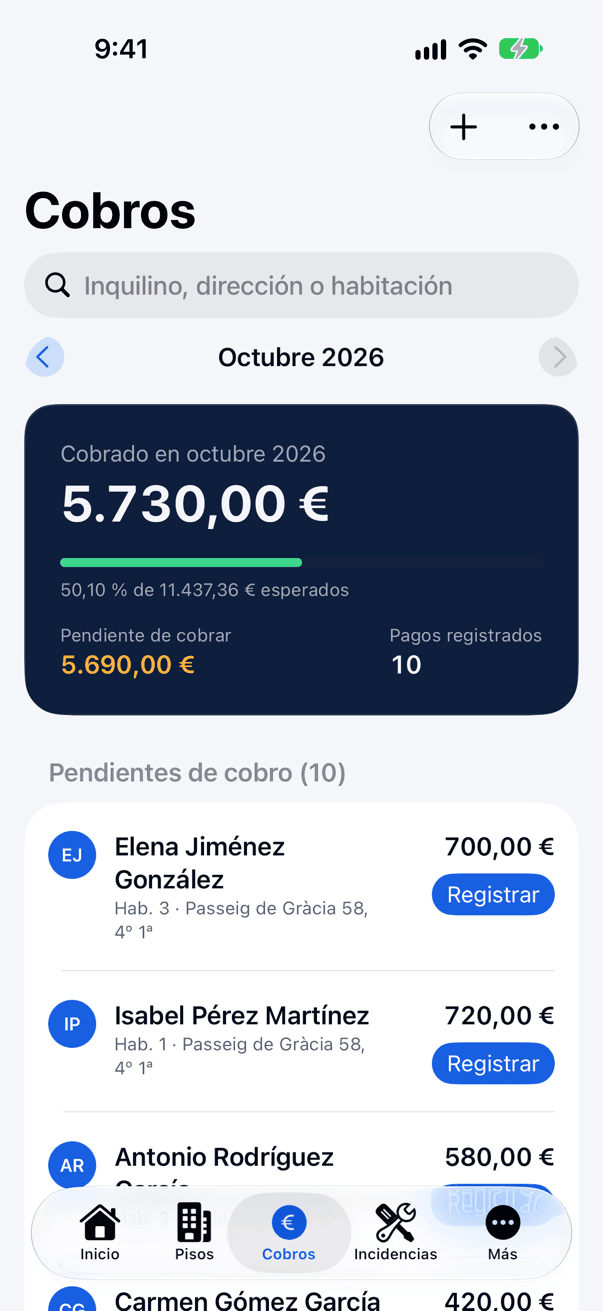
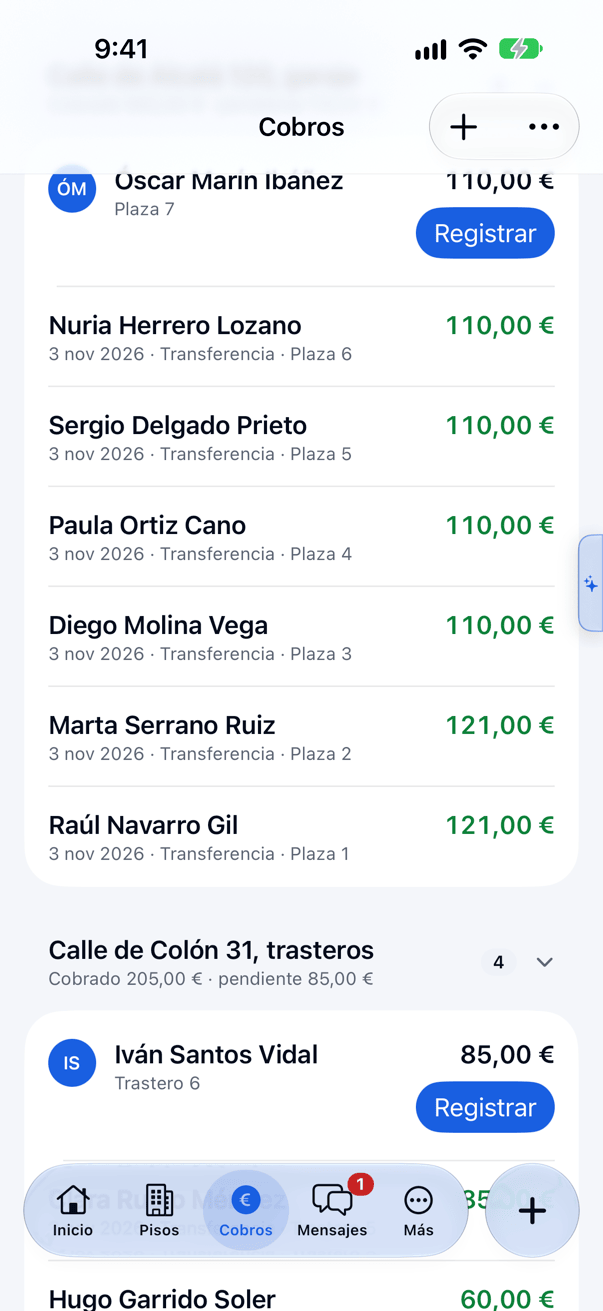
Escaparate con garajes y trasteros
- Diez capturas en claro y oscuro: Inicio, cartera con los tres tipos, piso,
  garaje, cobros, estadísticas, comparación de análisis, mensajes, ajustes y
  vista del inquilino (recorrido testEscaparate).
- La tarjeta de cada inmueble muestra su tipo.
- Comparar análisis: importes desde 1.000 € sin céntimos para que no se corten.
- README: garajes y trasteros, y cabecera con el Inicio nuevo.

diff --git a/ios/GestionApProUITests/CapturasUITests.swift b/ios/GestionApProUITests/CapturasUITests.swift
@@ -1704,7 +1704,6 @@ extension CapturasUITests {
         r.capturar("17-borrado")
     }
 
-    /// Resúmenes tocables: tarjetas y alertas de Inicio y métricas de rentabilidad del piso.
     /// Garajes y trasteros (V12): alta por tipo, garaje con sus plazas, contrato con IVA y filtros.
     @MainActor
     func testGarajes() throws {
@@ -1760,6 +1759,106 @@ extension CapturasUITests {
         fc.buttons["Todos"].tap()
     }
 
+    /// Escaparate del repositorio (docs/capturas/destacadas/): las pantallas principales, con garajes y trasteros.
+    @MainActor
+    func testEscaparate() throws {
+        let r = try Recorrido.iniciar(capturarLogin: false)
+        r.esperar(r.elemento(contiene: "Cobrado este mes"))
+        r.esperar(r.app.descendants(matching: .any).matching(identifier: "lenguetaAsistente").firstMatch)
+        r.pausa(2.5)
+        r.capturar("01-inicio")
+
+        // Detalle de un piso con rentabilidad (el primero por cash flow).
+        r.pestana("Pisos")
+        r.esperar(r.app.buttons["tarjetaPiso"].firstMatch)
+        r.app.buttons["tarjetaPiso"].firstMatch.tap()
+        r.esperar(r.app.buttons["metrica-bruta"])
+        r.pausa(2)
+        r.capturar("03-piso")
+        r.atras()
+        r.pausa(1)
+
+        // Pisos por dirección: vivienda, garaje y trasteros seguidos.
+        r.app.buttons["Filtrar y ordenar"].firstMatch.tap()
+        r.app.buttons["Dirección"].firstMatch.tap()
+        r.pausa(1)
+        r.desplazarHasta(r.app.buttons.matching(NSPredicate(format: "label CONTAINS %@", "Colón")).firstMatch)
+        r.pausa(1.5)
+        r.capturar("02-pisos")
+
+        let garaje = r.app.buttons.matching(NSPredicate(format: "identifier == %@ AND label CONTAINS %@", "tarjetaPiso", "Alcalá")).firstMatch
+        r.desplazarHasta(garaje).tap()
+        r.esperar(r.app.buttons["enlaceHabitaciones"])
+        r.pausa(2)
+        r.capturar("04-garaje")
+        r.atras()
+        r.pausa(1)
+
+        r.pestana("Cobros")
+        r.esperar(r.elemento(contiene: "Atrasados"))
+        r.pausa(1)
+        r.desplazarHasta(r.app.buttons["Por piso"].firstMatch).tap()
+        r.pausa(1)
+        r.app.swipeUp(velocity: .slow)
+        r.pausa(1.5)
+        r.capturar("05-cobros")
+
+        r.pestana("Más")
+        r.app.buttons["Estadísticas"].tap()
+        r.esperar(r.app.navigationBars["Estadísticas"])
+        r.app.buttons["Mes"].firstMatch.tap()
+        r.pausa(2.5)
+        r.capturar("06-estadisticas")
+        r.atras()
+
+        r.app.buttons["Calculadora de rentabilidad"].tap()
+        r.esperar(r.app.buttons["guardarAnalisis"])
+        r.pausa(1)
+        // "Análisis guardados" está en el menú de acciones secundarias de la barra.
+        if !r.app.buttons["analisisGuardados"].exists {
+            r.app.navigationBars.buttons["OverflowBarButtonItem"].tap()
+        }
+        let guardados = r.app.buttons.matching(NSPredicate(format: "identifier == %@ OR label == %@",
+                                                           "analisisGuardados", "Análisis guardados")).firstMatch
+        r.esperar(guardados)
+        guardados.tap()
+        r.esperar(r.app.navigationBars["Análisis guardados"])
+        let casillas = r.app.buttons.matching(identifier: "elegirAnalisis")
+        for i in 0..<min(3, casillas.count) { casillas.element(boundBy: i).tap() }
+        r.app.buttons["comparar"].tap()
+        r.esperar(r.app.navigationBars["Comparar análisis"])
+        r.pausa(2)
+        r.capturar("07-calculadora")
+        r.atras()
+        r.pausa(1)
+        r.atras()
+        r.pausa(1)
+        r.app.buttons["Cerrar"].firstMatch.tapSiExiste()
+        r.pausa(1)
+
+        r.pestana("Mensajes")
+        r.esperar(r.app.buttons["filaConversacion"].firstMatch)
+        r.pausa(1.5)
+        r.capturar("08-mensajes")
+
+        r.pestana("Más")
+        r.desplazarHasta(r.app.buttons["enlaceAjustes"]).tap()
+        r.esperar(r.app.descendants(matching: .any).matching(identifier: "selectorApariencia").firstMatch)
+        r.pausa(1.5)
+        r.capturar("09-ajustes")
+
+        let env = ProcessInfo.processInfo.environment
+        guard let email = env["CAPTURAS_INQUILINO_EMAIL"], !email.isEmpty,
+              let password = env["CAPTURAS_INQUILINO_PASSWORD"] else {
+            throw XCTSkip("Faltan CAPTURAS_INQUILINO_EMAIL o CAPTURAS_INQUILINO_PASSWORD")
+        }
+        let ri = r.relanzar(email: email, password: password)
+        ri.esperar(ri.app.navigationBars["Mi alquiler"])
+        ri.pausa(2)
+        ri.capturar("10-mi-alquiler")
+    }
+
+    /// Resúmenes tocables: tarjetas y alertas de Inicio y métricas de rentabilidad del piso.
     @MainActor
     func testTarjetas() throws {
         let r = try Recorrido.iniciar(capturarLogin: false)

diff --git a/ios/GestionApPro/Features/Calculadora/AnalisisGuardadosView.swift b/ios/GestionApPro/Features/Calculadora/AnalisisGuardadosView.swift
@@ -175,7 +175,7 @@ struct ComparacionAnalisisView: View {
                                         Text(v.map(fila.formato) ?? "—")
                                             .font(Tema.Fuente.cifraPequena)
                                             .foregroundStyle(i == mejor ? Tema.Color.positivo : Tema.Color.texto)
-                                            .minimumScaleFactor(0.7).lineLimit(1)
+                                            .minimumScaleFactor(0.6).lineLimit(1)
                                             .frame(maxWidth: .infinity, alignment: .trailing)
                                             .accessibilityLabel("\(analisis[i].nombre), \(fila.titulo): "
                                                 + (v.map(fila.formato) ?? String(localized: "sin dato"))
@@ -212,7 +212,8 @@ enum ComparacionAnalisis {
         let filas: [Fila]
     }
 
-    private static func euros(_ v: Double) -> String { Formato.euros(v) }
+    /// Sin céntimos a partir de 1.000 €: con tres columnas, "198.000,00 €" no cabe en un iPhone.
+    static func euros(_ v: Double) -> String { abs(v) >= 1000 ? Formato.eurosRedondo(v) : Formato.euros(v) }
     private static func pct(_ v: Double) -> String { Formato.porcentaje(v) }
 
     static var grupos: [Grupo] {

diff --git a/ios/GestionApPro/DesignSystem/Componentes/TarjetaPiso.swift b/ios/GestionApPro/DesignSystem/Componentes/TarjetaPiso.swift
@@ -12,13 +12,13 @@ struct TarjetaPiso: View {
     var body: some View {
         VStack(alignment: .leading, spacing: Tema.Espacio.m) {
             HStack(alignment: .top, spacing: Tema.Espacio.s) {
-                IconoEtiqueta(icono: "building.2", tono: .primario)
+                IconoEtiqueta(icono: piso.tipoInmueble == .vivienda ? "building.2" : piso.tipoInmueble.icono, tono: .primario)
                 VStack(alignment: .leading, spacing: Tema.Espacio.linea) {
                     Text(piso.direccion)
                         .font(Tema.Fuente.subtitulo)
                         .foregroundStyle(Tema.Color.texto)
                         .fixedSize(horizontal: false, vertical: true)
-                    Text(piso.ciudad.nombre)
+                    Text(piso.tipoInmueble == .vivienda ? piso.ciudad.nombre : "\(piso.ciudad.nombre) · \(piso.tipoInmueble.nombre)")
                         .font(Tema.Fuente.detalle)
                         .foregroundStyle(Tema.Color.textoSecundario)
                     // Con texto grande la insignia va debajo: a la derecha se partía ("Exce-lente").

diff --git a/README.md b/README.md
@@ -1,8 +1,8 @@
 # GestionAp PRO · App iPhone + API
 
-<p align="center"><img src="docs/capturas/destacadas/claro/02-inicio.png" width="260" alt="Pantalla de inicio de GestionAp PRO en iPhone"></p>
+<p align="center"><img src="docs/capturas/destacadas/claro/01-inicio.png" width="260" alt="Pantalla de inicio de GestionAp PRO en iPhone"></p>
 
-**App nativa para iPhone en SwiftUI para gestionar el alquiler de habitaciones, con su propia API REST en Spring Boot que comparte la base de datos con la app de escritorio [GestionAp PRO](https://github.com/nelsongomezsa/gestionAPPRO).**
+**App nativa para iPhone en SwiftUI para gestionar el alquiler de habitaciones, plazas de garaje y trasteros, con su propia API REST en Spring Boot que comparte la base de datos con la app de escritorio [GestionAp PRO](https://github.com/nelsongomezsa/gestionAPPRO).**
 
 [![CI](https://github.com/nelsongomezsa/gestionapro/actions/workflows/ci.yml/badge.svg)](https://github.com/nelsongomezsa/gestionapro/actions/workflows/ci.yml)
 ![Java](https://img.shields.io/badge/Java-21-ED8B00?logo=openjdk&logoColor=white)
@@ -11,13 +11,13 @@
 ![Tests](https://img.shields.io/badge/tests-220%20API%20·%2081%20iOS-2ea44f)
 ![Licencia: MIT](https://img.shields.io/badge/licencia-MIT-yellow)
 
-> **English summary:** A Spring Boot 3.5 / Java 21 REST API (JWT, role-based access for admin, owner and tenant) and a native SwiftUI iOS app (Swift 6 strict concurrency) for managing room rentals in Spain. It shares a MariaDB database with an existing JavaFX desktop app without breaking it. Features include numbered PDF receipts, deposits, annual rent updates using live official indices from Spain's statistics office (INE), real expenses with invoice photos, an indicative tax summary, bank-statement reconciliation, on-screen contract signing, owner–tenant messaging, Face ID, a home-screen widget, and an optional AI assistant built on the Claude API with server-side tools and user-confirmed actions. 220 API tests and 81 iOS tests.
+> **English summary:** A Spring Boot 3.5 / Java 21 REST API (JWT, role-based access for admin, owner and tenant) and a native SwiftUI iOS app (Swift 6 strict concurrency) for managing rentals of rooms, parking spaces and storage units in Spain. It shares a MariaDB database with an existing JavaFX desktop app without breaking it. Features include numbered PDF receipts, deposits, annual rent updates using live official indices from Spain's statistics office (INE), real expenses with invoice photos, an indicative tax summary, bank-statement reconciliation, on-screen contract signing, owner–tenant messaging, Face ID, a home-screen widget, and an optional AI assistant built on the Claude API with server-side tools and user-confirmed actions. 220 API tests and 81 iOS tests.
 
 <p>
-<img src="docs/capturas/destacadas/oscuro/02-inicio.png" width="180" alt="Inicio en modo oscuro">
-<img src="docs/capturas/destacadas/claro/04-piso.png" width="180" alt="Detalle de piso">
-<img src="docs/capturas/destacadas/oscuro/08-renta.png" width="180" alt="Actualización de renta con el IRAV">
-<img src="docs/capturas/destacadas/claro/14-mi-alquiler.png" width="180" alt="Vista del inquilino">
+<img src="docs/capturas/destacadas/oscuro/01-inicio.png" width="180" alt="Inicio en modo oscuro">
+<img src="docs/capturas/destacadas/claro/02-pisos.png" width="180" alt="Pisos, garajes y trasteros">
+<img src="docs/capturas/destacadas/oscuro/04-garaje.png" width="180" alt="Garaje con su rentabilidad">
+<img src="docs/capturas/destacadas/claro/10-mi-alquiler.png" width="180" alt="Vista del inquilino">
 </p>
 
 [Más capturas en claro y oscuro](docs/capturas/README.md) · [Vídeo del recorrido (70 s)](docs/video/recorrido.mp4) · [Caso de estudio](docs/CASO_DE_ESTUDIO.md)
@@ -26,7 +26,7 @@
 
 ## Qué es
 
-Un propietario que alquila habitaciones necesita saber, cada mes, quién ha pagado, qué contratos vencen,
+Un propietario que alquila habitaciones, plazas de garaje o trasteros necesita saber, cada mes, quién ha pagado, qué contratos vencen,
 qué se ha roto y cuánto gana de verdad cada piso. La app de escritorio lo resolvía, pero solo delante del
 ordenador. Este proyecto lleva esos datos al móvil, y también al inquilino, con seguridad por roles: cada
 propietario ve solo lo suyo y cada inquilino solo su alquiler.
@@ -40,6 +40,10 @@ propietario ve solo lo suyo y cada inquilino solo su alquiler.
 - Calculadora de rentabilidad con el ITP de cada comunidad autónoma.
 
 **Lo que el escritorio no tenía**
+- **Garajes y trasteros** en la misma app: alta por tipo (unidades, m², planta y coche o moto), textos según
+  el tipo, contratos de plaza o trastero con duración libre, fianza opcional e IVA opcional desglosado en el
+  recibo, inventario de entrega (mandos, llaves, tarjetas, candado), incidencias típicas y filtro por tipo en
+  Pisos, Cobros y Estadísticas.
 - **Recibos PDF numerados** por propietario y año, para verlos, compartirlos o enviarlos por email.
 - **Fianzas:** entrega, depósito en el organismo autonómico y devolución, con motivo si se retiene algo.
 - **Actualización anual de la renta** con el **IRAV o el IPC del INE leídos en directo** de su API oficial.

diff --git a/docs/capturas/README.md b/docs/capturas/README.md
@@ -1,17 +1,16 @@
 # Capturas destacadas
 
 Escaparate de la app en el simulador iPhone 18 Pro (iOS 27), en modo claro y oscuro, con datos de
-demostración inventados. Las capturas de trabajo de cada fase se generan en `docs/capturas-local/`
-(no se versionan) con `ios/scripts/capturas.sh`.
+demostración inventados (incluidos un garaje y un edificio de trasteros: `api/sql/demo_garajes_trasteros.sql`).
+Se generan con `ios/scripts/capturas.sh Escaparate <url-api-de-pruebas>` (recorrido `testEscaparate`); las
+capturas de trabajo de cada fase van a `docs/capturas-local/` y no se versionan.
 
 Vídeo del recorrido: [`docs/video/recorrido.mp4`](../video/recorrido.mp4).
 
 | | |
 |---|---|
-| **Acceso**<br><img src="destacadas/claro/01-acceso.png" width="200"> <img src="destacadas/oscuro/01-acceso.png" width="200"> | **Inicio: cobrado del mes, indicadores y tendencia**<br><img src="destacadas/claro/02-inicio.png" width="200"> <img src="destacadas/oscuro/02-inicio.png" width="200"> |
-| **Cartera de pisos**<br><img src="destacadas/claro/03-pisos.png" width="200"> <img src="destacadas/oscuro/03-pisos.png" width="200"> | **Detalle de piso y rentabilidad**<br><img src="destacadas/claro/04-piso.png" width="200"> <img src="destacadas/oscuro/04-piso.png" width="200"> |
-| **Cobros del mes**<br><img src="destacadas/claro/05-cobros.png" width="200"> <img src="destacadas/oscuro/05-cobros.png" width="200"> | **Recibo en PDF numerado**<br><img src="destacadas/claro/06-recibo.png" width="200"> <img src="destacadas/oscuro/06-recibo.png" width="200"> |
-| **Contrato**<br><img src="destacadas/claro/07-contrato.png" width="200"> <img src="destacadas/oscuro/07-contrato.png" width="200"> | **Actualización de renta con el IRAV del INE**<br><img src="destacadas/claro/08-renta.png" width="200"> <img src="destacadas/oscuro/08-renta.png" width="200"> |
-| **Ficha de inquilino**<br><img src="destacadas/claro/09-inquilino.png" width="200"> <img src="destacadas/oscuro/09-inquilino.png" width="200"> | **Avisos agrupados**<br><img src="destacadas/claro/10-avisos.png" width="200"> <img src="destacadas/oscuro/10-avisos.png" width="200"> |
-| **Estadísticas**<br><img src="destacadas/claro/11-estadisticas.png" width="200"> <img src="destacadas/oscuro/11-estadisticas.png" width="200"> | **Resumen fiscal anual (orientativo)**<br><img src="destacadas/claro/12-resumen-fiscal.png" width="200"> <img src="destacadas/oscuro/12-resumen-fiscal.png" width="200"> |
-| **Calculadora de rentabilidad**<br><img src="destacadas/claro/13-calculadora.png" width="200"> <img src="destacadas/oscuro/13-calculadora.png" width="200"> | **Vista del inquilino**<br><img src="destacadas/claro/14-mi-alquiler.png" width="200"> <img src="destacadas/oscuro/14-mi-alquiler.png" width="200"> |
+| **Inicio: cobrado del mes, resúmenes, barra con «+» y lengüeta del asistente**<br><img src="destacadas/claro/01-inicio.png" width="200"> <img src="destacadas/oscuro/01-inicio.png" width="200"> | **Cartera: pisos, garajes y trasteros**<br><img src="destacadas/claro/02-pisos.png" width="200"> <img src="destacadas/oscuro/02-pisos.png" width="200"> |
+| **Detalle de piso y rentabilidad**<br><img src="destacadas/claro/03-piso.png" width="200"> <img src="destacadas/oscuro/03-piso.png" width="200"> | **Garaje con sus plazas y su rentabilidad**<br><img src="destacadas/claro/04-garaje.png" width="200"> <img src="destacadas/oscuro/04-garaje.png" width="200"> |
+| **Cobros del mes agrupados por inmueble**<br><img src="destacadas/claro/05-cobros.png" width="200"> <img src="destacadas/oscuro/05-cobros.png" width="200"> | **Estadísticas**<br><img src="destacadas/claro/06-estadisticas.png" width="200"> <img src="destacadas/oscuro/06-estadisticas.png" width="200"> |
+| **Calculadora: análisis de inversión comparados**<br><img src="destacadas/claro/07-calculadora.png" width="200"> <img src="destacadas/oscuro/07-calculadora.png" width="200"> | **Mensajes con el inquilino**<br><img src="destacadas/claro/08-mensajes.png" width="200"> <img src="destacadas/oscuro/08-mensajes.png" width="200"> |
+| **Ajustes**<br><img src="destacadas/claro/09-ajustes.png" width="200"> <img src="destacadas/oscuro/09-ajustes.png" width="200"> | **Vista del inquilino: Mi alquiler**<br><img src="destacadas/claro/10-mi-alquiler.png" width="200"> <img src="destacadas/oscuro/10-mi-alquiler.png" width="200"> |
